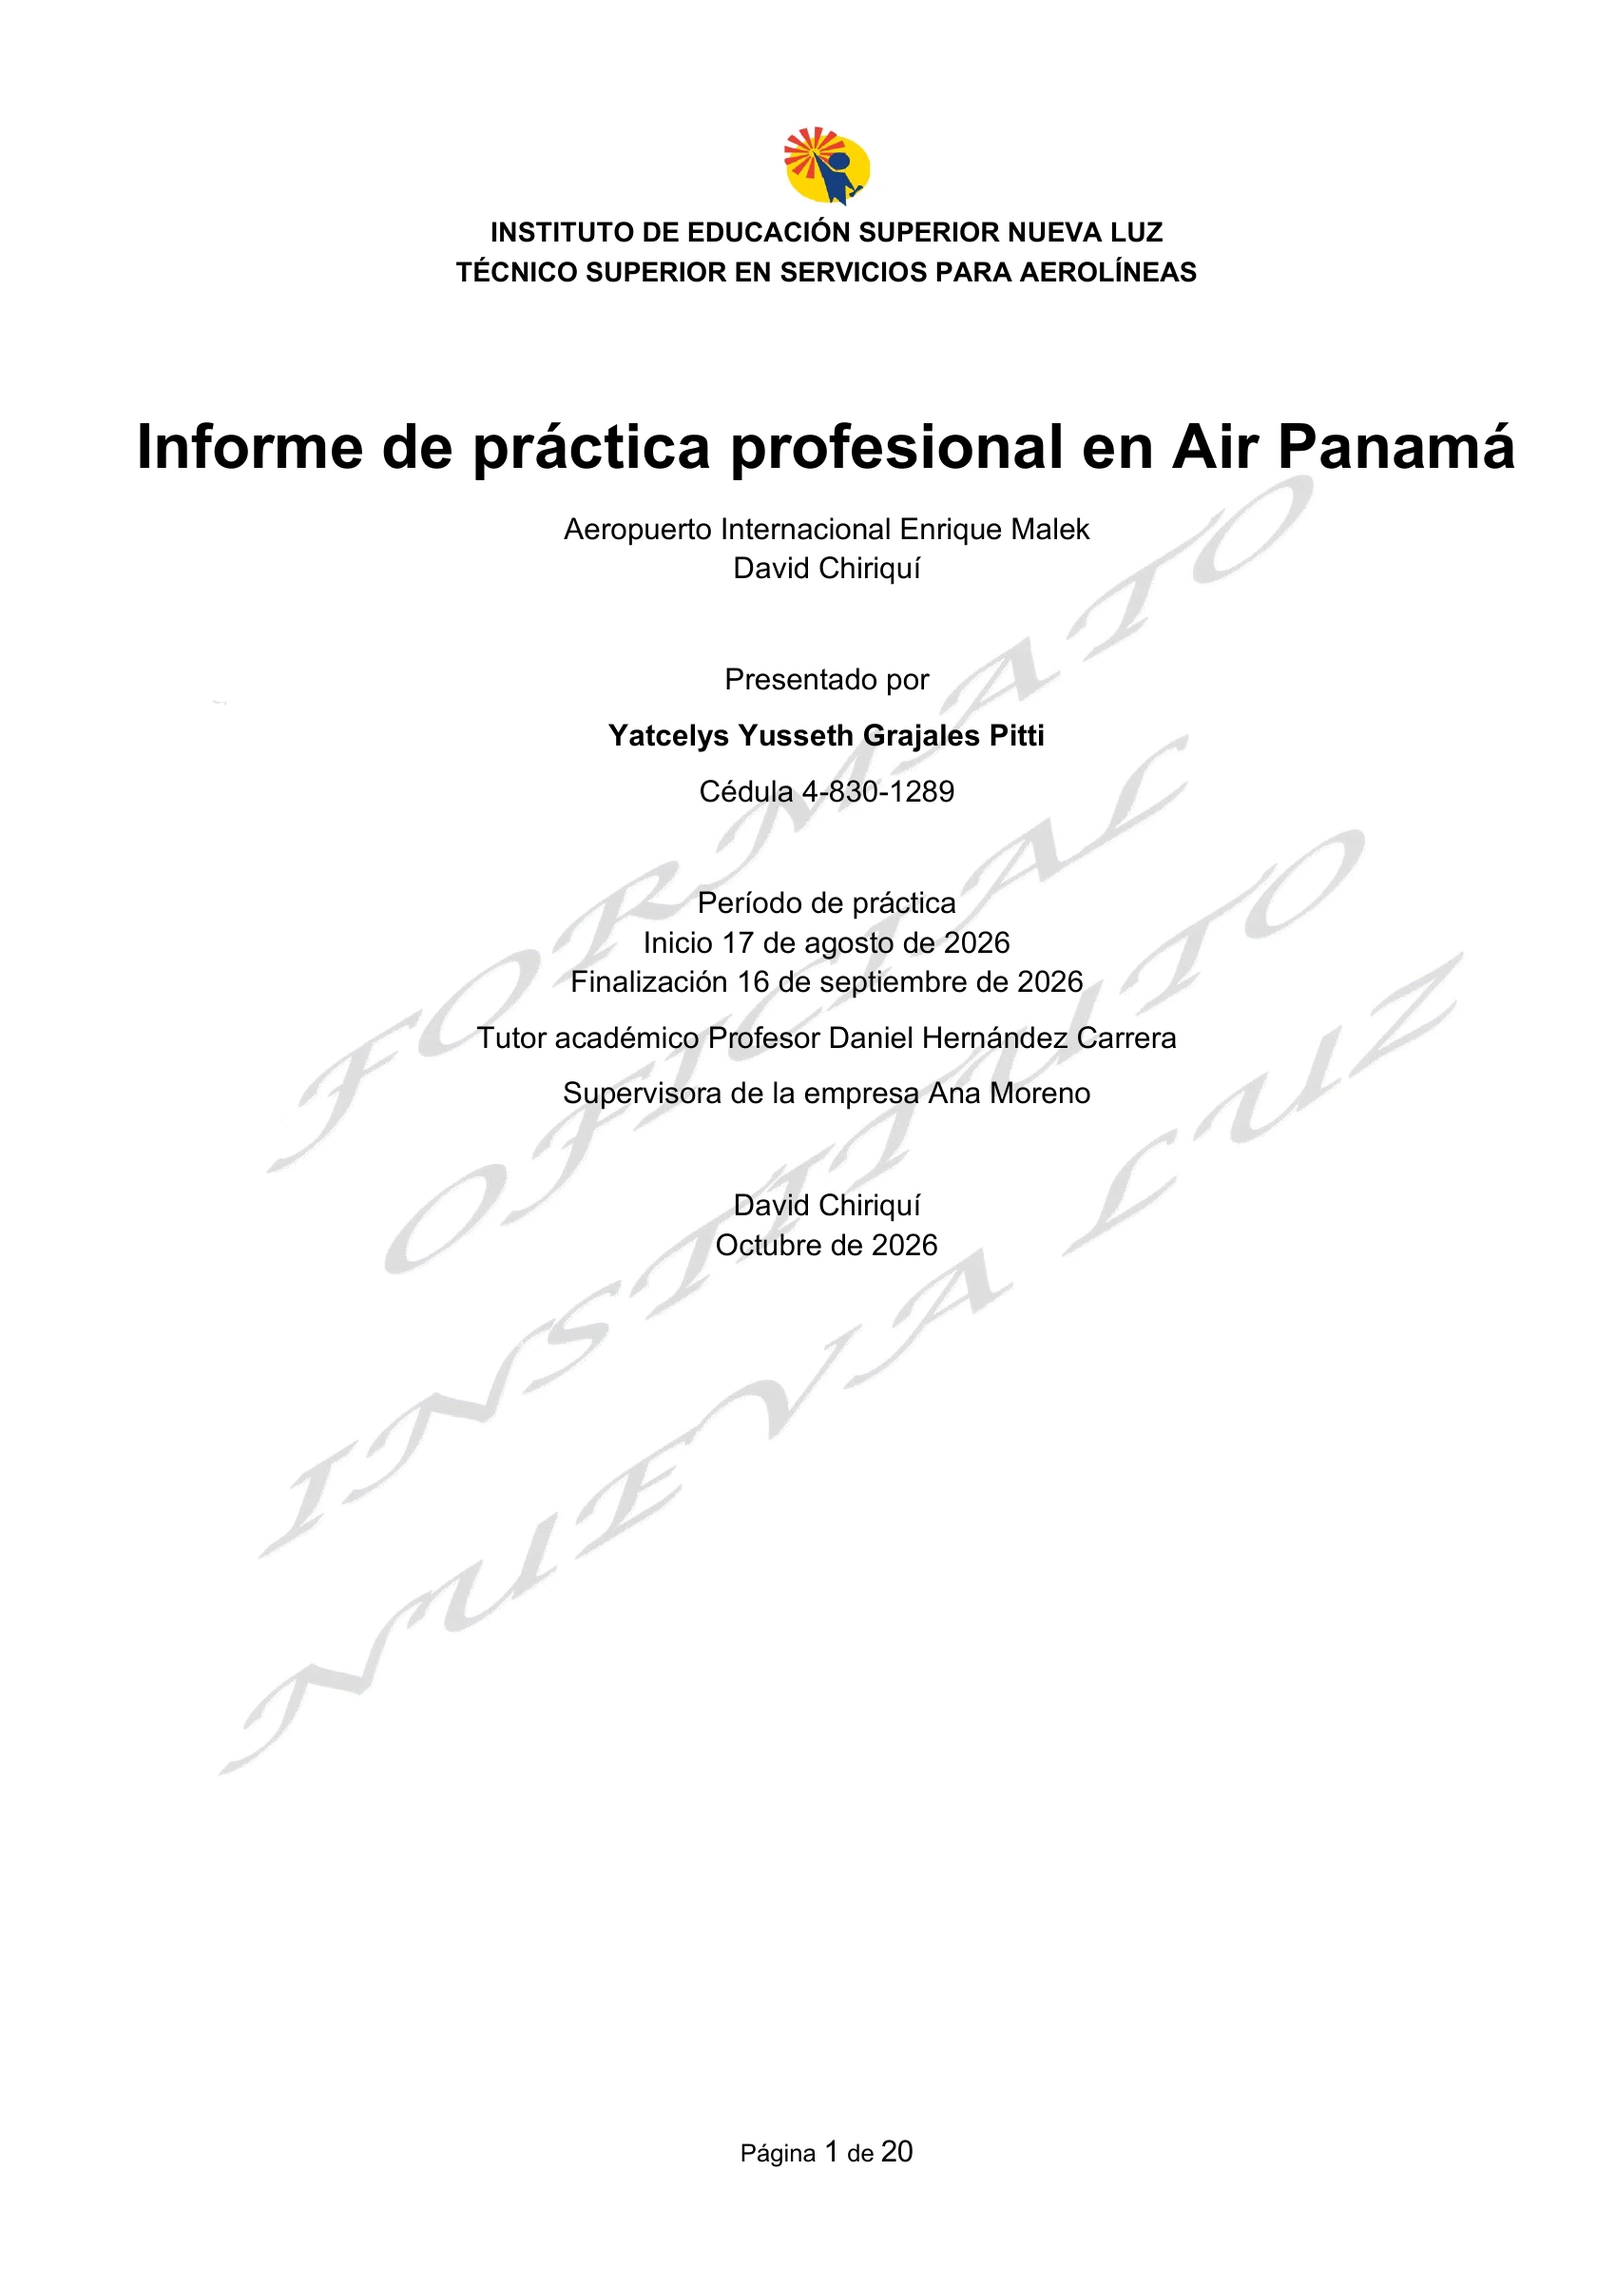
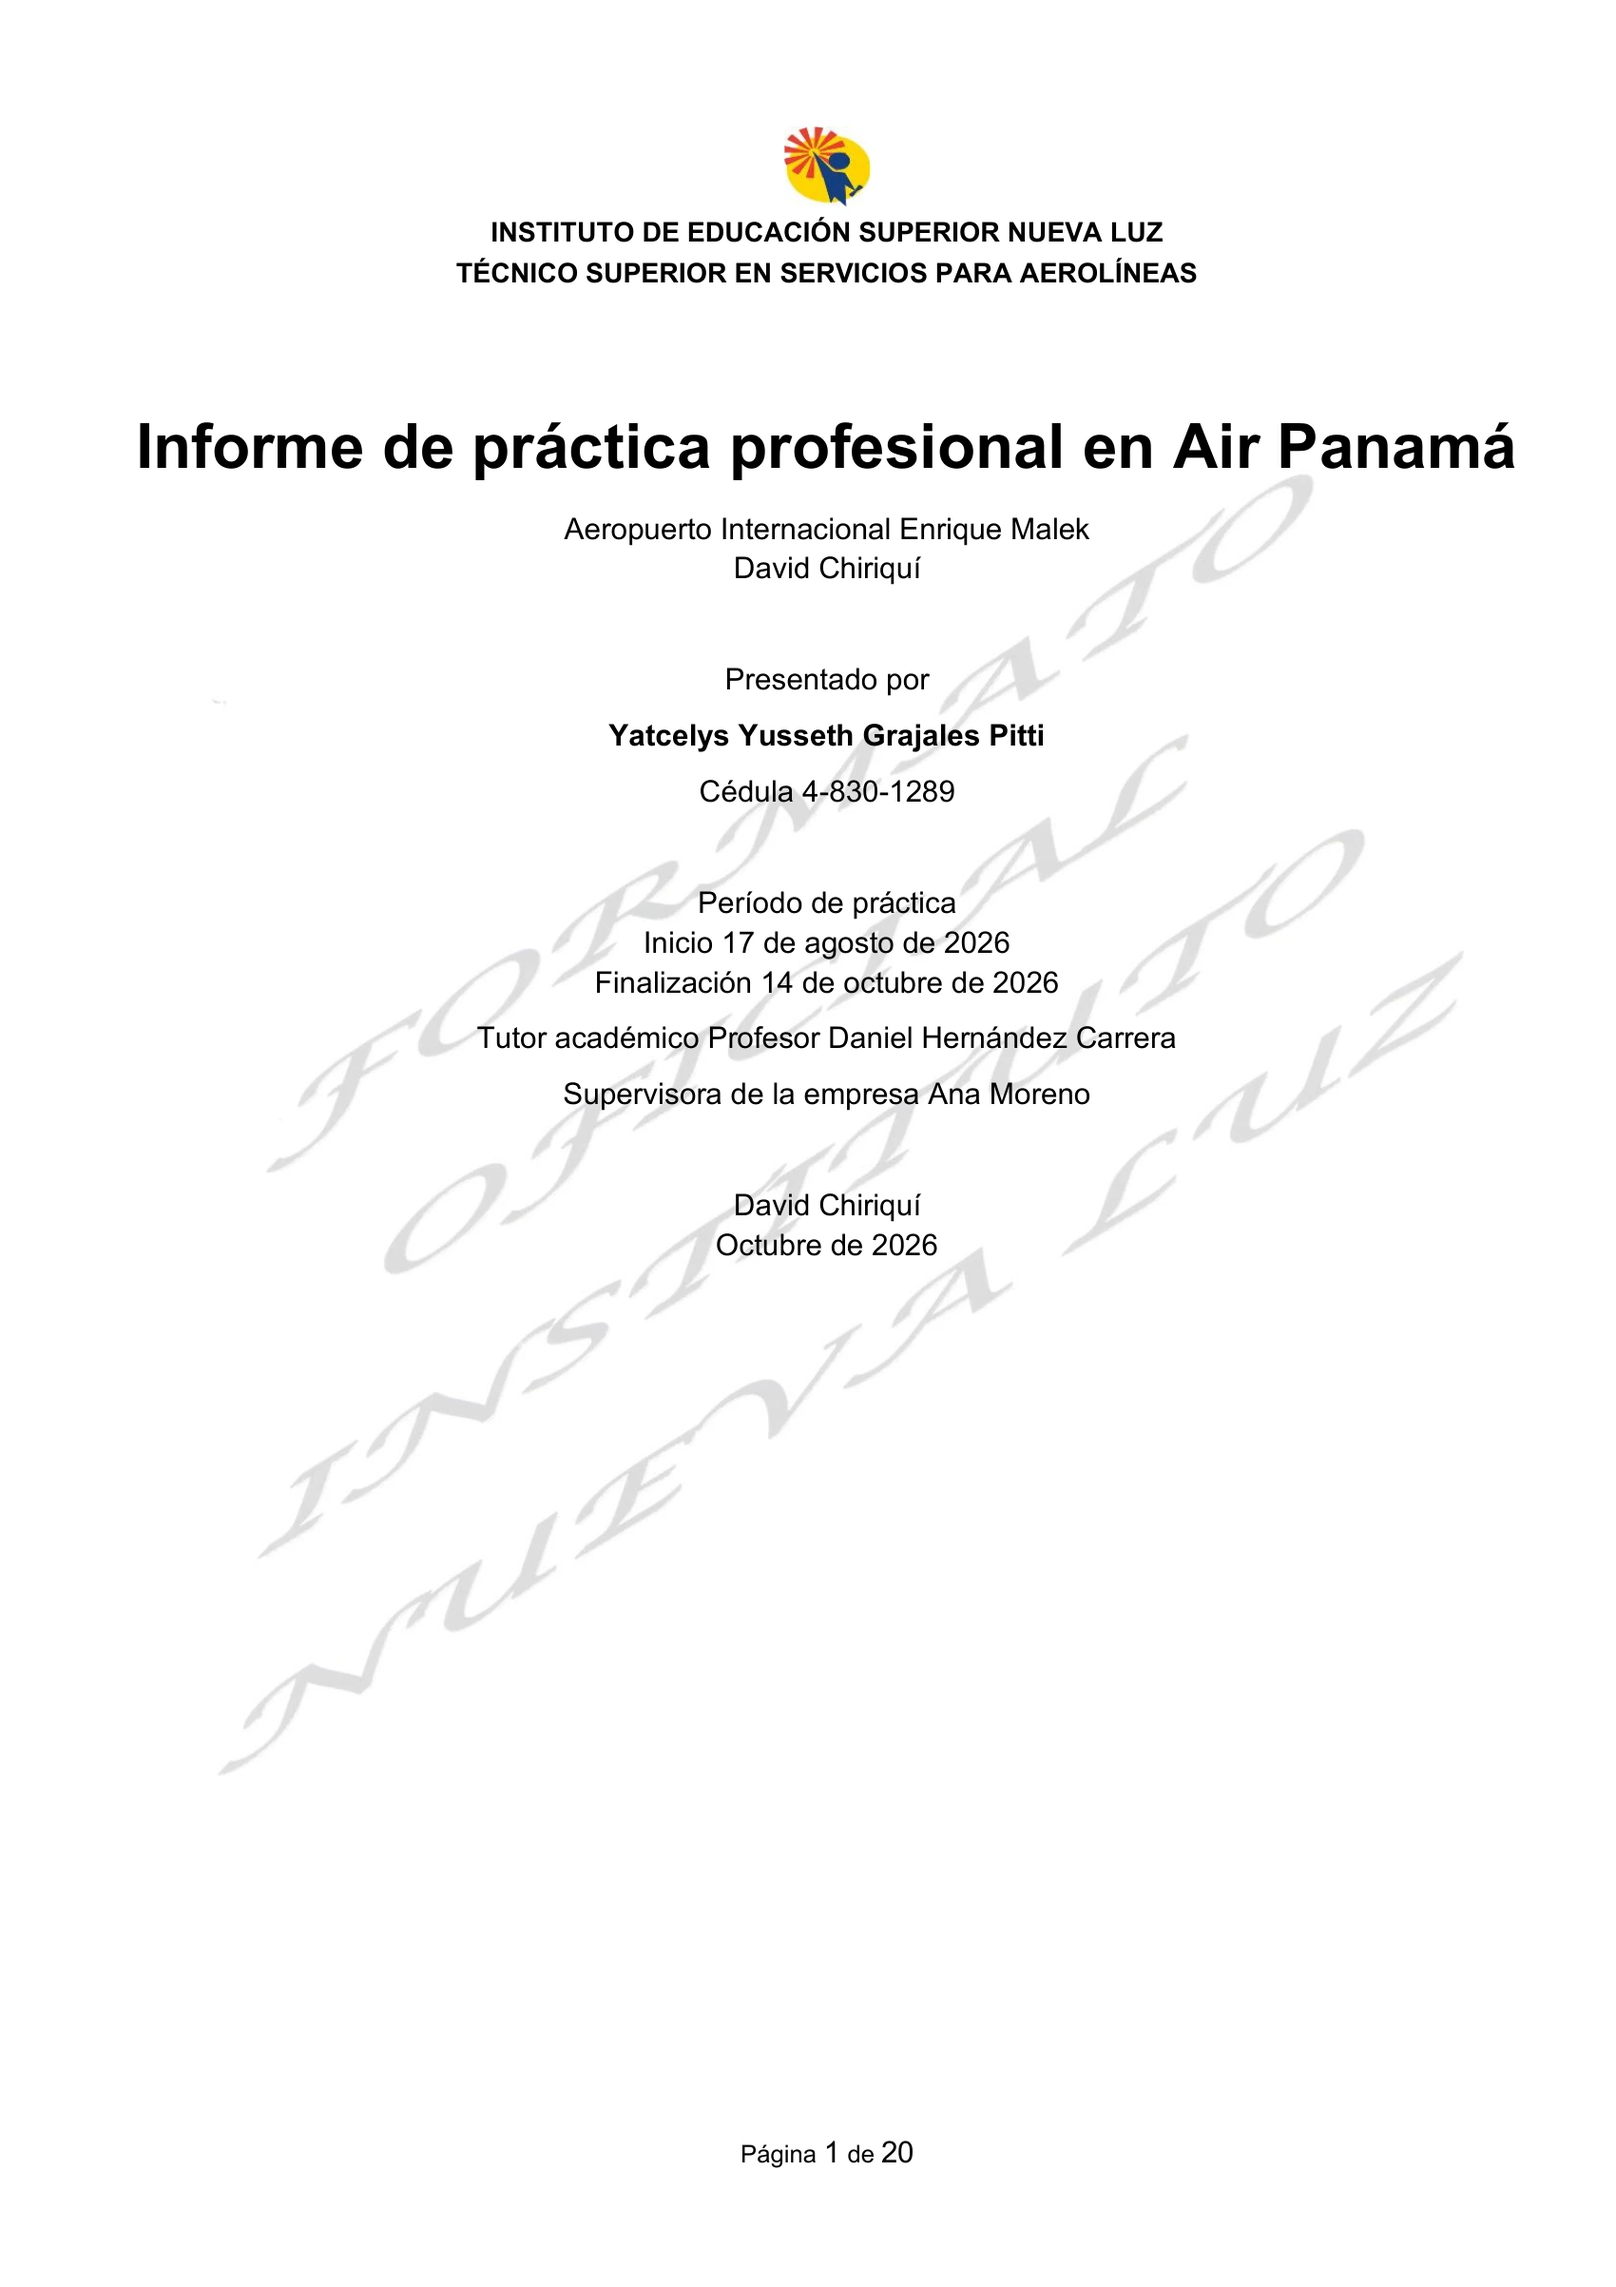
Correct practice end date to 14 October 2026

Changed region(s): [[0.3741, 0.4054, 0.6547, 0.4366], [0.4988, 0.0624, 0.53, 0.0936], [0.4676, 0.9356, 0.4988, 0.9667]]

diff --git a/informe/visor.js b/informe/visor.js
@@ -62,7 +62,8 @@
         source.decoding = 'async';
         source.onload = () => resolve(source);
         source.onerror = () => reject(new Error('Página no disponible'));
-        source.src = `paginas/pagina-${String(record.number).padStart(2, '0')}.webp`;
+        const revision = record.number === 1 ? '?v=20261030' : '';
+        source.src = `paginas/pagina-${String(record.number).padStart(2, '0')}.webp${revision}`;
       });
       if (request !== record.request) return;
       const context = record.canvas.getContext('2d', { alpha: false });

diff --git a/informe/index.html b/informe/index.html
@@ -11,7 +11,7 @@
   <title>Informe de práctica · Yatcelys Grajales</title>
   <link rel="icon" href="icon.svg" type="image/svg+xml">
   <link rel="stylesheet" href="visor.css?v=2">
-  <script src="visor.js?v=2" defer></script>
+  <script src="visor.js?v=3" defer></script>
 </head>
 <body>
   <header class="masthead">

diff --git a/README.md b/README.md
@@ -55,4 +55,6 @@ El [informe de práctica profesional](https://natch1623.github.io/yatce_aviacion
 
 El PDF original no está en este repositorio. El visor dibuja páginas WebP en un canvas y no muestra controles de descarga o impresión. Se desactivan el menú contextual sobre la página y los atajos habituales para guardar e imprimir; la impresión del navegador omite las páginas del informe.
 
+La portada del informe se corrigió el 30 de octubre de 2026: el período confirmado es del 17 de agosto al 14 de octubre de 2026, de acuerdo con la asistencia y la confirmación recibida. Las horas siguen pendientes de cerrar por una anotación AM/PM dudosa del 6 de septiembre.
+
 Estas medidas son obstáculos de interfaz, no protección contra copia: el sitio y las imágenes son públicos, y una persona puede guardar las páginas, reconstruir el contenido o hacer capturas. GitHub Pages no permite garantizar que un documento visible sea imposible de descargar. La vista en canvas tampoco ofrece el texto completo a lectores de pantalla.
